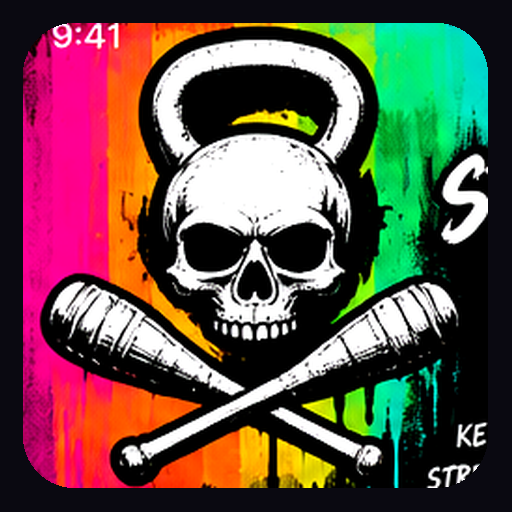
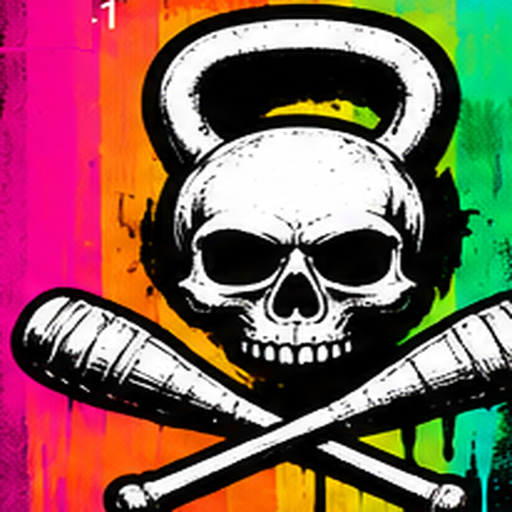
Add files via upload

diff --git a/app.js b/app.js
@@ -131,7 +131,7 @@ function renderMovementCatalog(){const q=movementQuery.toLowerCase(),f=movementF
 function renderHub(){return `<section class="hero"><p class="eyebrow">Training hub</p><h2>Learn. Assess. Progress.</h2><p>Find working weights, practice movements and review your prescriptions.</p></section><div class="hub-tabs"><button class="${hubSection==='weights'?'selected':''}" data-hub-section="weights">Weight setup</button><button class="${hubSection==='learn'?'selected':''}" data-hub-section="learn">Learn movements</button></div>${hubSection==='weights'?renderAssess():renderMovementCatalog()}`}
 function renderHistory(){const sessions=[...state.sessions].reverse();const total=sessions.length;const unique=new Set(sessions.map(s=>s.date)).size;return `<section class="hero"><p class="eyebrow">Training log</p><h2>Keep showing up.</h2><p>Your training history is saved only on this device unless you export it.</p></section><div class="card"><div class="metric"><span>Completed workouts</span><strong>${total}</strong></div><div class="metric"><span>Days trained</span><strong>${unique}</strong></div><div class="metric"><span>Most recent session</span><strong>${sessions[0]?esc(sessions[0].date):'—'}</strong></div></div>${sessions.length?sessions.map(s=>`<article class="card session"><div class="row"><div><p class="eyebrow">${esc(s.date)} · Week ${s.week+1}</p><h3>${esc(DAYS[s.day])}: ${esc(s.title)}</h3></div><button class="button secondary" data-delete="${esc(s.id)}">Delete</button></div><p class="meta">${s.effort?`Effort ${esc(s.effort)}/10 · `:''}${s.activity?`${esc(s.activity.type)} · ${esc(s.activity.minutes)} min · ${esc(s.activity.effort)}`:s.items.length+' exercises'}</p>${s.items.map(x=>`<div class="exercise-summary"><strong>${esc(x.name)}</strong><div class="muted">${esc(x.weight)} · ${esc(x.sets)} ${x.completed===true?'· Complete':x.completed===false?'· Partial':''} ${x.extraReps?'· +'+esc(x.extraReps)+' reps':''} ${x.volume!=null?'· '+esc(x.volume)+' '+esc(x.unit||'kg')+' work volume':''} ${x.reps?`· Actual: ${esc(x.reps)}`:''}</div></div>`).join('')}${s.notes?`<p class="note">${esc(s.notes)}</p>`:''}</article>`).join(''):'<section class="card empty">No completed workouts yet. Open Train and save your first session.</section>'}`}
 function renderSettings(){return `<section class="hero"><p class="eyebrow">Your data</p><h2>Local, private, yours.</h2><p>No account, tracking, or server database. Your workouts stay in this browser's local storage.</p></section><section class="card stack"><h3>Back up your training</h3><p class="muted">Export JSON to restore every workout and saved draft. Export CSV to analyze completed workouts in Google Sheets or Excel.</p><button class="button" id="export-json">Download full backup (.json)</button><button class="button secondary" id="export-csv">Download workout history (.csv)</button><div class="field"><label for="import-json">Restore from a JSON backup</label><input id="import-json" type="file" accept="application/json,.json"></div><p class="warning">Local storage can disappear if you clear browser data, uninstall the app, or lose your phone. Save a backup regularly. Restoring replaces the current local history.</p></section><section class="card"><h3>About your plan</h3><p class="muted">Four weeks, five suggested training days per week; substitute cycling, hiking or physical work when appropriate. Kettlebell strength on Monday/Friday, club skill Tuesday/Thursday, and kettlebell technique or conditioning Wednesday. Week 4 eases intensity and reviews progress.</p><p class="muted">Exercises are a starting template, not individualized medical advice. Gradually increase loading only when technique stays solid. Scale back anything that irritates the Achilles or shoulders.</p></section>`}
-function render(){document.getElementById('view').innerHTML=view==='train'?renderTrain():view==='hub'?renderHub():view==='history'?renderHistory():renderSettings();document.querySelectorAll('[data-view]').forEach(b=>{b.classList.toggle('selected',b.dataset.view===view)});mountClock();updateTimer()}
+function render(){const heads={train:['Strength<br>Lab','Kettlebell / Heavy Club'],hub:['Training<br>Hub','Learn / Assess / Progress'],history:['Training<br>History','Your work over time'],settings:['Settings','Make it yours']};const h=heads[view]||heads.train;document.getElementById('page-heading').innerHTML=h[0];document.getElementById('page-tagline').textContent=h[1];document.getElementById('view').innerHTML=view==='train'?renderTrain():view==='hub'?renderHub():view==='history'?renderHistory():renderSettings();document.querySelectorAll('[data-view]').forEach(b=>{b.classList.toggle('selected',b.dataset.view===view)});mountClock();updateTimer()}
 function download(filename,content,mime){const blob=new Blob([content],{type:mime}),url=URL.createObjectURL(blob),a=document.createElement('a');a.href=url;a.download=filename;document.body.appendChild(a);a.click();a.remove();setTimeout(()=>URL.revokeObjectURL(url),5000)}
 const csv=v=>'"'+String(v??'').replace(/"/g,'""')+'"';
 function csvData(){let rows=[['Session ID','Date','Week','Day','Workout','Exercise','Planned load','Logged load','Sets/time','Actual reps','RPE','Notes','Completed','Sets done','Work volume','Unit','Extra reps']];for(const s of state.sessions){const planned=PROGRAM[s.week]?.days[s.day]?.items||[];s.items.forEach((i,j)=>rows.push([s.id,s.date,s.week+1,DAYS[s.day],s.title,i.name,planned[j]?.load||'',i.weight,i.sets,i.reps,s.effort,s.notes,i.completed??'',i.setsDone??'',i.volume??'',i.unit??'',i.extraReps??'']))}return rows.map(r=>r.map(csv).join(',')).join('\r\n')}

diff --git a/styles.css b/styles.css
@@ -153,3 +153,41 @@ clip-path:polygon(0 0,100% 0,100% 86%,98% 86%,97% 99%,95% 86%,92% 86%,90% 100%,8
 .letter{background:linear-gradient(90deg,#ff009e,#11131b 15%)!important;color:#fff}
 .clock-dock{border-top:4px solid #ffea00!important}
 @media(max-width:470px){.top{min-height:126px;padding:18px 10px 23px!important}.brand{gap:7px!important}.brandmark{width:77px!important;height:77px!important}.top h1{font-size:clamp(23px,7vw,35px)!important}.offline{font-size:8px!important;padding:4px!important}.top small{font-size:8px!important}.tab{padding-left:5px!important;padding-right:5px!important}}
+
+/* V13 — concept-art fidelity: full bleed rainbow spray paint, dynamic brush title,
+   outline cue panels, and artwork-only skull icon */
+html{background:#08080e}
+body{background:#090910 url("./spray.svg") center top/800px 1700px repeat-y!important;color:#f7f7f8;min-height:100vh}
+#app{background:linear-gradient(90deg,#0b0a10ec,#0b0a10f6 10%,#0b0a10f8 90%,#0b0a10ed);min-height:100vh;box-shadow:-15px 0 45px #0008,15px 0 45px #0008}
+.top{background:linear-gradient(180deg,#0a090e15,#09090ef5 97%)!important;min-height:150px}
+.top:before{background:linear-gradient(90deg,#ff009e 0%,#ff8800 13%,#ffe500 27%,#00d99b 45%,#00d9eb 62%,#7d00dc 80%,#ff009e 100%)!important;clip-path:polygon(0 0,100% 0,100% 62%,97% 62%,97% 88%,94% 62%,90% 62%,90% 100%,86% 62%,83% 62%,83% 81%,78% 62%,74% 62%,74% 92%,70% 62%,66% 62%,66% 100%,61% 62%,57% 62%,57% 80%,52% 62%,48% 62%,48% 100%,44% 62%,39% 62%,39% 85%,34% 62%,30% 62%,30% 100%,26% 62%,21% 62%,21% 85%,16% 62%,12% 62%,12% 98%,7% 62%,3% 62%,3% 88%,0 62%)!important;opacity:1!important}
+.top:after{display:none}
+.brandmark{width:112px!important;height:112px!important;border:0!important;border-radius:0!important;box-shadow:none!important;background:transparent!important;transform:none!important;overflow:hidden}
+.brandmark img{object-fit:contain;display:block}
+.top h1{font-family:Impact,'Arial Black','Franklin Gothic Heavy',sans-serif!important;font-size:clamp(35px,8.5vw,56px)!important;line-height:.88!important;letter-spacing:-.045em!important;font-style:italic;transform:rotate(-5deg) skew(-8deg)!important;text-transform:uppercase;text-shadow:2px 2px 0 #0a0910,4px 4px 0 #0a0910,-1px -1px 0 #0a0910!important;margin:0 0 10px}
+.pink-stroke{display:block;height:9px;width:min(195px,95%);background:#ff009e;transform:rotate(-4deg) skew(-24deg);clip-path:polygon(0 35%,96% 0,100% 56%,81% 78%,10% 100%,0 65%);box-shadow:0 3px 0 #ff009e}
+#page-tagline{font-family:Impact,'Arial Narrow',sans-serif;font-size:12px!important;font-style:italic;text-transform:uppercase;letter-spacing:.07em;color:white;background:#090910a8;display:inline-block;padding:5px}
+.tabs{border-bottom:1px solid #54505a!important}
+.tab.selected{background:#ffea00!important;color:#0b0b10!important;box-shadow:inset 0 -4px #ff009e,3px 0 0 #0b0b10!important}
+main{background:transparent!important;padding-bottom:90px}
+.hero{border:1px solid #34343d!important;border-left:7px solid #00e5dc!important;background:linear-gradient(135deg,#1b1c23,#101017)!important}
+.hero h2,.card h2,.card h3{font-family:Impact,'Arial Black',sans-serif!important;font-weight:900!important;font-style:italic;text-transform:uppercase}
+.card{background:linear-gradient(145deg,#181921,#101116)!important;border:1px solid #42424d!important;border-radius:10px!important}
+.card:has(.setup-cue),.card:has(.movement-cue),.tech-guide,.setup-cue,.movement-cue,.note{border:1px solid #00e5dc!important;border-radius:10px!important}
+.setup-cue,.movement-cue{padding:12px!important;margin-top:8px}
+.setup-cue{border-color:#ff009e!important}
+.movement-cue{border-color:#00e5dc!important}
+.exercise{background:#111219!important;border:1px solid #3c3c46!important;border-left:5px solid #00e5dc!important;border-radius:9px!important}
+.exercise:nth-child(3n){border-left-color:#ff009e!important}
+.exercise:nth-child(3n + 1){border-left-color:#ffe500!important}
+.routine{border:1px solid #ff009e!important;border-radius:10px!important}
+.hub-tabs button.selected{background:#ffea00!important;color:#0b0b10!important}
+.metric{border:1px solid #00e5dc!important}
+.clock-dock{border-top:4px solid #ffe500!important}
+@media(max-width:470px){
+.top{min-height:126px!important;padding:18px 10px 19px!important}
+.brandmark{width:90px!important;height:90px!important}
+.top h1{font-size:clamp(29px,7.6vw,42px)!important}
+.pink-stroke{height:7px;width:140px}
+#page-tagline{font-size:9px!important}
+}

diff --git a/index.html b/index.html
@@ -1,3 +1,3 @@
 <!doctype html>
-<html lang="en"><head><meta charset="utf-8"><meta name="viewport" content="width=device-width,initial-scale=1,viewport-fit=cover"><meta name="theme-color" content="#101013"><meta name="description" content="Offline-first kettlebell and club training log"><link rel="manifest" href="manifest.webmanifest"><link rel="icon" href="icon-192.png"><link rel="apple-touch-icon" href="icon-192.png"><link rel="stylesheet" href="styles.css?v=12"><title>Strength Lab</title></head>
-<body><div id="app"><header class="top"><div class="brand"><div class="brandmark"><img src="concept-skull.png" alt="Kettlebell skull and crossed heavy clubs"></div><div><h1>Strength Lab</h1><small>Train for the long game</small></div></div><span class="offline" id="network">Offline ready</span></header><nav class="tabs" aria-label="Main navigation"><button class="tab" data-view="hub">Training Hub</button><button class="tab selected" data-view="train">Train</button><button class="tab" data-view="history">History</button><button class="tab" data-view="settings">Settings</button></nav><main id="view" aria-live="polite"></main></div><dialog id="dialog"><form method="dialog" id="dialog-content"></form></dialog><script src="app.js?v=12" defer></script></body></html>
+<html lang="en"><head><meta charset="utf-8"><meta name="viewport" content="width=device-width,initial-scale=1,viewport-fit=cover"><meta name="theme-color" content="#101013"><meta name="description" content="Offline-first kettlebell and club training log"><link rel="manifest" href="manifest.webmanifest"><link rel="icon" href="icon-192.png"><link rel="apple-touch-icon" href="icon-192.png"><link rel="stylesheet" href="styles.css?v=13"><title>Strength Lab</title></head>
+<body><div id="app"><header class="top"><div class="brand"><div class="brandmark"><img src="concept-skull.png" alt="Kettlebell skull and crossed heavy clubs"></div><div><h1 id="page-heading">Strength<br>Lab</h1><span class="pink-stroke" aria-hidden="true"></span><small id="page-tagline">Kettlebell / Heavy Club</small></div></div><span class="offline" id="network">Offline ready</span></header><nav class="tabs" aria-label="Main navigation"><button class="tab" data-view="hub">Training Hub</button><button class="tab selected" data-view="train">Train</button><button class="tab" data-view="history">History</button><button class="tab" data-view="settings">Settings</button></nav><main id="view" aria-live="polite"></main></div><dialog id="dialog"><form method="dialog" id="dialog-content"></form></dialog><script src="app.js?v=13" defer></script></body></html>

diff --git a/sw.js b/sw.js
@@ -1,1 +1,1 @@
-const CACHE='strength-lab-v12';const ASSETS=['./','./index.html','./styles.css','./app.js','./manifest.webmanifest','./icon-192.png','./icon-512.png','./concept-skull.png'];self.addEventListener('install',e=>e.waitUntil(caches.open(CACHE).then(c=>c.addAll(ASSETS)).then(()=>self.skipWaiting())));self.addEventListener('activate',e=>e.waitUntil(caches.keys().then(keys=>Promise.all(keys.filter(k=>k!==CACHE).map(k=>caches.delete(k)))).then(()=>self.clients.claim())));self.addEventListener('fetch',e=>{if(e.request.method!=='GET'||new URL(e.request.url).origin!==self.location.origin)return;e.respondWith(fetch(e.request).then(r=>{if(r.ok){const copy=r.clone();e.waitUntil(caches.open(CACHE).then(c=>c.put(e.request,copy)))}return r}).catch(()=>caches.match(e.request).then(v=>v||caches.match('./index.html'))))});
+const CACHE='strength-lab-v13';const ASSETS=['./','./index.html','./styles.css','./app.js','./manifest.webmanifest','./icon-192.png','./icon-512.png','./concept-skull.png','./spray.svg'];self.addEventListener('install',e=>e.waitUntil(caches.open(CACHE).then(c=>c.addAll(ASSETS)).then(()=>self.skipWaiting())));self.addEventListener('activate',e=>e.waitUntil(caches.keys().then(keys=>Promise.all(keys.filter(k=>k!==CACHE).map(k=>caches.delete(k)))).then(()=>self.clients.claim())));self.addEventListener('fetch',e=>{if(e.request.method!=='GET'||new URL(e.request.url).origin!==self.location.origin)return;e.respondWith(fetch(e.request).then(r=>{if(r.ok){const copy=r.clone();e.waitUntil(caches.open(CACHE).then(c=>c.put(e.request,copy)))}return r}).catch(()=>caches.match(e.request).then(v=>v||caches.match('./index.html'))))});

diff --git a/README.md b/README.md
@@ -1,1 +1,1 @@
-Strength Lab V12: restores the EXACT skull and crossed-clubs artwork from the approved concept image (cropped for app usage), adds aggressive rainbow spray-paint header, distressed neon styling and updated home-screen icons. V10/V11 training features unchanged. Upload contents to GitHub repository root. Visit ?v=12 and hard refresh.\n
+Strength Lab V13 — concept art fidelity pass. Skull-and-clubs-only app artwork (no time or lettering); dynamic title Strength Lab / Training Hub / Training History / Settings with neon pink brush underline; rainbow spray-paint background and splatter on the vertical page; outlined exercise cue panels. Existing workout features retained. Upload all files from this folder to GitHub repo root, open ?v=13, Ctrl+Shift+R.\n
